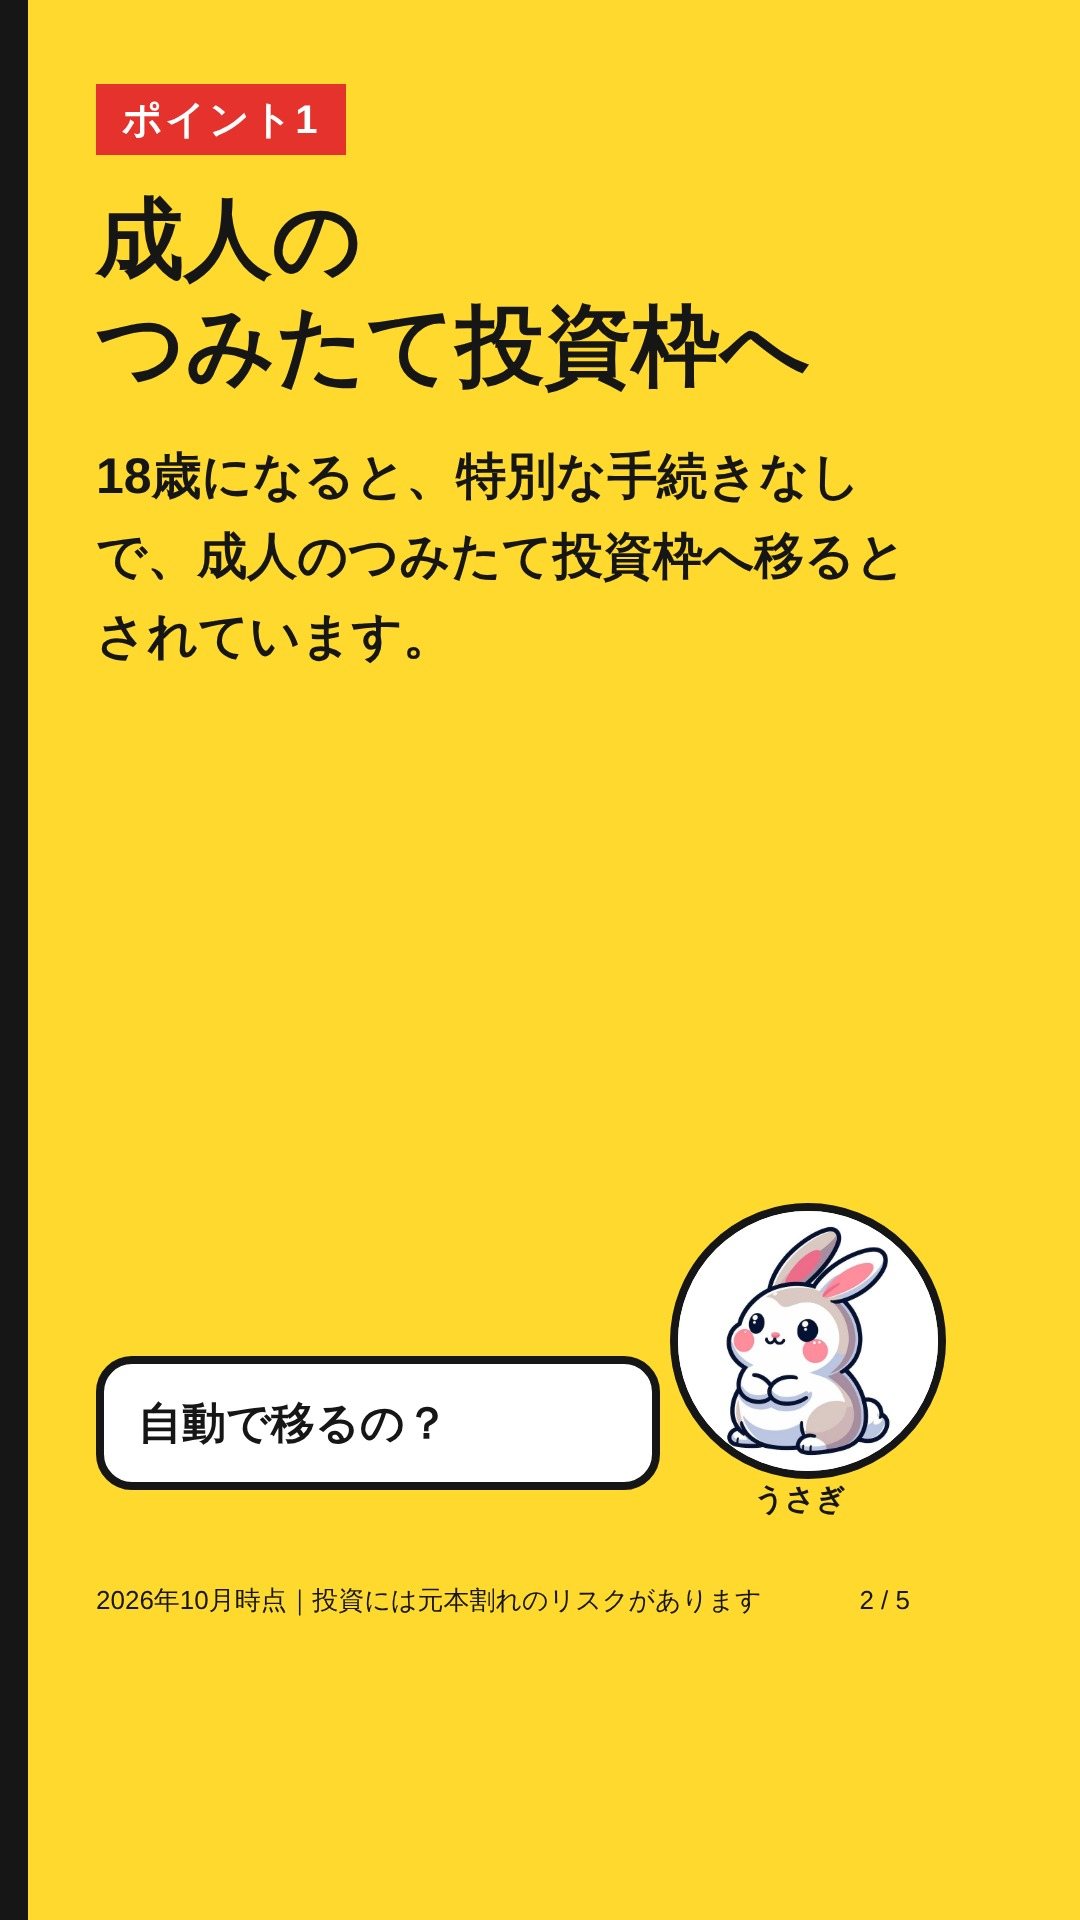
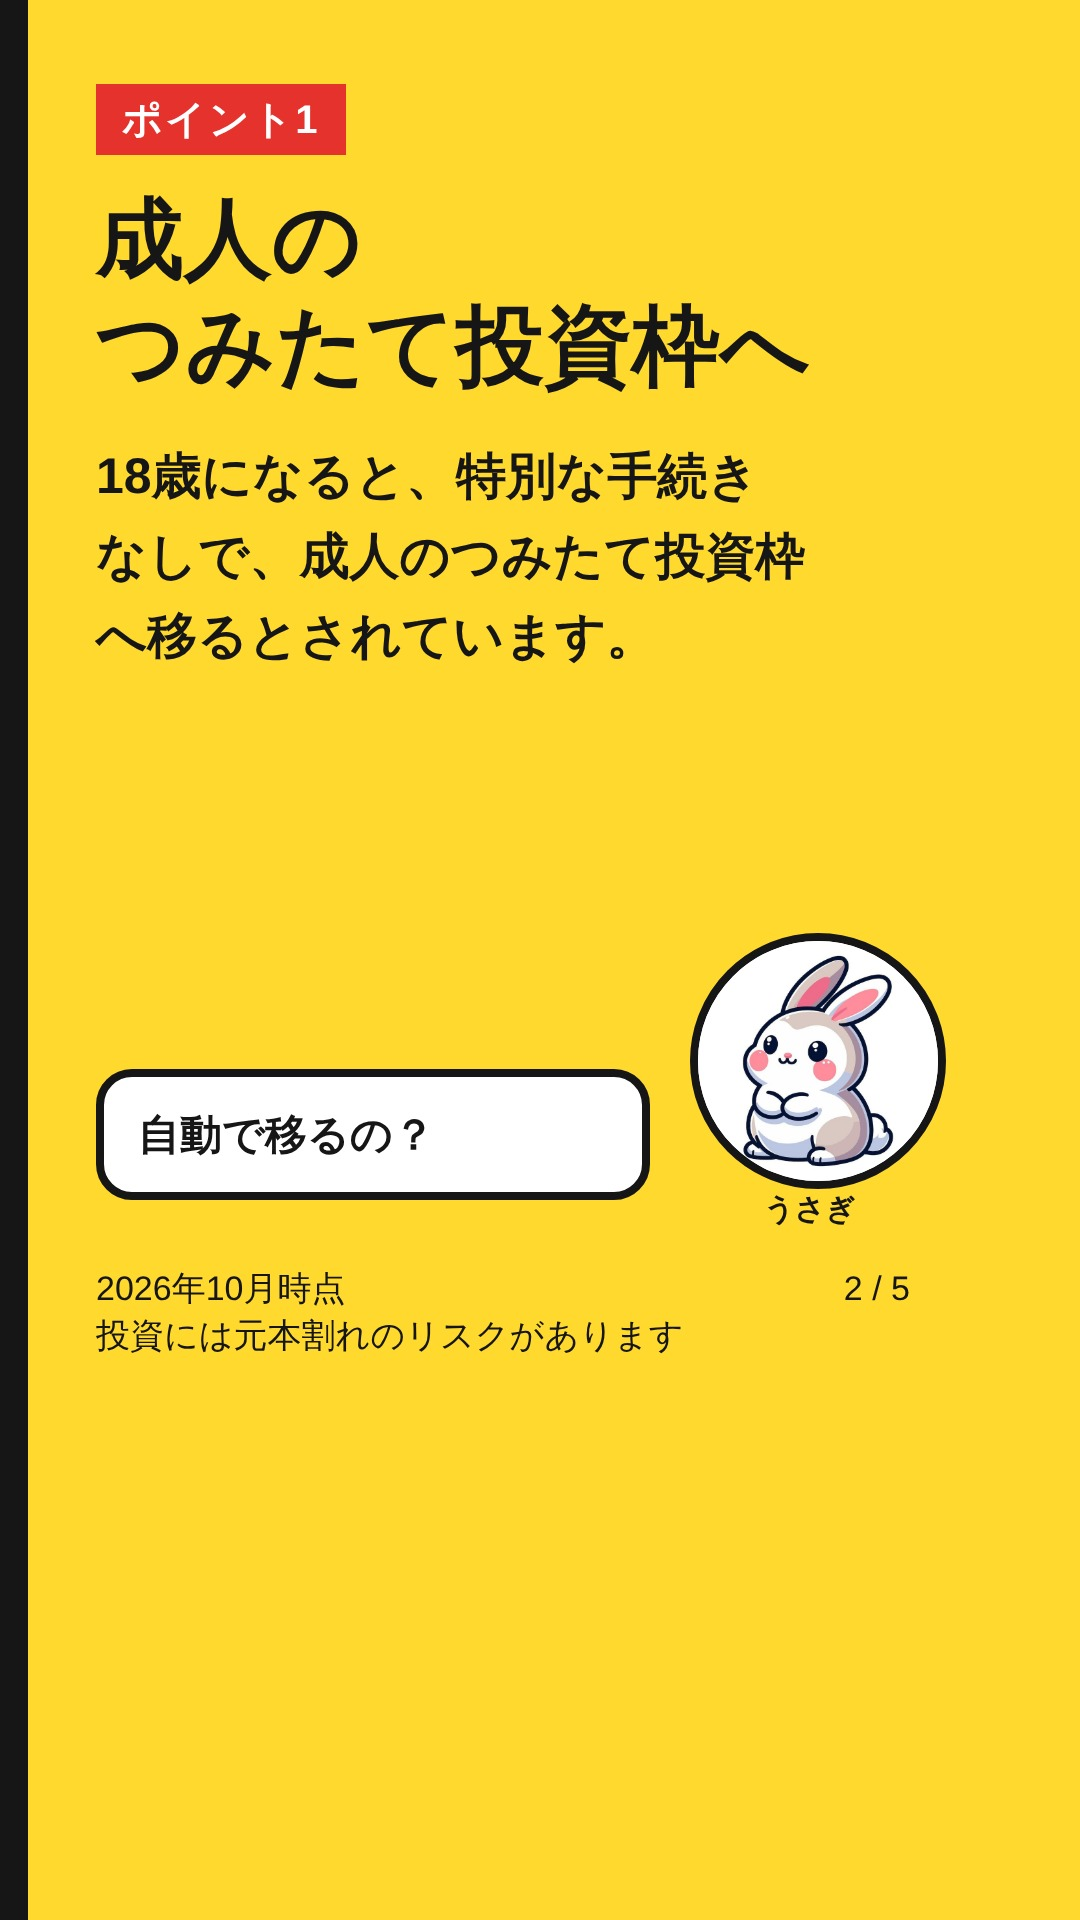
TikTok素材を検品の指摘に沿って作り直し（9:16の安全域、題材の変更）
Claude-Session: https://claude.ai/code/session_016eD9xCr7yvyvgGHZSW11X3

diff --git a/scripts/make_carousel.js b/scripts/make_carousel.js
@@ -37,7 +37,7 @@ ul{list-style:none;padding:0;margin:40px 0 0;display:flex;flex-direction:column;
     if (s.type === 'cover') inner = `<span class="pill">${esc(s.tag)}</span><h1>${esc(s.title)}</h1><div class="swipe">スワイプして見てね →</div><div class="who"><img src="${img(s.who||'owl')}">${NAME[s.who||'owl']}</div>`;
     else if (s.type === 'summary') inner = `<span class="pill">まとめ</span><h2>${esc(s.title)}</h2><ul>${(s.bullets||[]).map(x=>`<li>${esc(x)}</li>`).join('')}</ul><div class="cta">${esc(s.cta||'保存して、あとで見返してね')}</div>`;
     else inner = `<span class="pill">${esc(s.label||'')}</span><h2>${esc(s.title)}</h2><div class="body">${esc(s.body)}</div>${s.say?`<div class="say">${esc(s.say)}</div><div class="who"><img src="${img(s.who||'owl')}">${NAME[s.who||'owl']}</div>`:''}`;
-    const html = `<!doctype html><meta charset="utf-8"><style>${CSS.replace('height:1350px', 'height:' + H + 'px')}${TT ? 'body{padding-bottom:420px!important;padding-right:170px!important}.foot{bottom:300px!important;right:170px!important}.say{bottom:430px!important;right:420px!important}.who{bottom:400px!important;right:150px!important}.cta{bottom:430px!important;right:170px!important}.swipe{bottom:430px!important}h1{font-size:112px!important}h2{font-size:88px!important}' : ''}</style><div class="bar"></div>${inner}<div class="foot"><span>${esc(d.footer||'')}</span><span>${i+1} / ${N}</span></div>`;
+    const html = `<!doctype html><meta charset="utf-8"><style>${CSS.replace('height:1350px', 'height:' + H + 'px')}${TT ? 'body{padding-bottom:700px!important;padding-right:170px!important}.foot{bottom:560px!important;right:170px!important;font-size:34px!important;line-height:1.4!important}.say{bottom:720px!important;right:430px!important;font-size:42px!important}.who{bottom:690px!important;right:150px!important;width:240px!important}.who img{width:240px!important;height:240px!important}.cta{bottom:720px!important;right:170px!important;font-size:48px!important}.swipe{bottom:720px!important}h1{font-size:112px!important}h2{font-size:88px!important}.body{font-size:50px!important}' : ''}</style><div class="bar"></div>${inner}<div class="foot"><span>${esc(d.footer||'')}</span><span>${i+1} / ${N}</span></div>`;
     await p.setContent(html); await p.waitForTimeout(250);
     await p.screenshot({path: path.join(outDir, `slide-${String(i+1).padStart(2,'0')}.jpg`), type:'jpeg', quality:92});
   }

diff --git a/reviews/tiktok-2026-10-12.md b/reviews/tiktok-2026-10-12.md
@@ -1,0 +1,76 @@
+# 検品: TikTok写真投稿3本（第1回）
+- 検品日: 2026-10-12
+- 対象: posts/tiktok/01-oya-kouza, 02-jidou-teate, 03-18sai（各 .json／slide-01〜05.jpg）と captions.md
+- 根拠: blog/content/posts/（oya-kouza-betsu-kaisha, haraidashi-12sai, kodomo-nisa-gakushi-hoken, junior-nisa-tigai）、research/20261010-kodomo-nisa.md、docs/compliance.md
+- 総合判定: 【3本とも差し戻し】
+
+| 本 | 判定 | A法令 | B事実 | C企画SEO | D読みやすさ |
+|---|---|---|---|---|---|
+| 01 親の口座、ある？ | 差し戻し | OK | 4/5 | 3/5 | 3/5 |
+| 02 全部つぎ込む？ちょっと待って | 差し戻し | NG | 2/5 | 2/5 | 3/5 |
+| 03 18歳でどうなる？ | 差し戻し | NG（キャプションに元本割れの注記なし。下の共通必須1と合わせて） | 4/5 | 4/5 | 3/5 |
+
+注: PR表記は、リンクなし・アフィリエイト要素なしのため今回は不要と判断。プロフィール欄に案件リンクを置く場合は、別途PR表記を要確認。
+
+## 共通の必須修正（3本とも・全15枚）
+| # | 該当箇所 | 問題 | 修正案 |
+|---|---|---|---|
+| 共1 | 全スライド下部のフッター「2026年10月時点｜投資には元本割れのリスクがあります」（y≒1600／1920、文字高さ約28px） | TikTokの下部UI（投稿者名・キャプション・音源表示）に隠れる位置。時点と元本割れの注記が、実質的に見えない。文字も小さい | フッターを画面の中ほど（y≒1100〜1250）に移し、文字を大きくする（目安40px以上）。キャプションにも時点と元本割れを入れる（現状は03に元本割れの記載なし） |
+| 共2 | 吹き出し・キャラクター・CTA（y≒1200〜1520）、右側のキャラ円（x≒670〜946） | 下側25％・右端の隠れる領域にかかる。吹き出しの文字（y≒1360〜1450）が隠れる恐れ。CTA（5枚目、y≒1305〜1490）も同様 | 本文・吹き出し・CTAは、上端から約150px下〜下端から約480px上、右端から約140px内側に収める。500〜1200pxの空白を活用して配置を詰める |
+| 共3 | 途中改行（後述の各本） | 単語の途中や1文字だけの改行（「じ／ゃ」「は／？」「てね」など） | 文節で改行する。吹き出しの幅を広げるか、文言を短くする |
+
+## 01 親の口座、ある？ —【差し戻し】
+### 必須修正
+| # | 該当箇所 | 問題 | 修正案 |
+|---|---|---|---|
+| 1-1 | 1枚目「申込の前に／親の口座、ある？」ほか全スライド | 「こどもNISA」の語が画像のどこにもない（スライド4に「こども口座」とあるのみ）。何の申込か、画像だけでは分からない。キャプションを読まない人は誤解する | 1枚目のタグを「こどもNISAの申込の前に」にする。以降も「こどもNISA」で統一する |
+| 1-2 | 4枚目「その会社のこども口座の条件を、公式の案内で確認します」 | 「その会社」が親の会社か別の会社か不明。「こども口座」は他では使っておらず表記ゆれ。ブログ（oya-kouza-betsu-kaisha）にある2つの道（親の会社で開く／別の会社で開き、親権者の口座も用意する）の片方しか言えていない | 「親の会社がこどもNISAを受け付けているか、公式で確認。別の会社で開くなら、親権者の口座もその会社に必要なことが多い」の趣旨に直す（「とされています」を付ける） |
+| 1-3 | 改行: 2枚目本文「こと／が条件」、4枚目吹き出し「大事な／のね」、5枚目CTA「見返し／てね」 | 途中改行・孤立 | 共3のとおり |
+### 推奨修正
+- キャプションのハッシュタグ #児童手当 は、この投稿の内容（親の口座）と無関係。外し、#親の口座 などに替える。
+- 2枚目の見出し「多くの会社は親も同じ会社の口座が条件」は、見出しだけを読むと言い切りに見える。ブログどおり「条件とされることが多い」にそろえる。
+- 3枚目「形が多いようです」の「ようです」は推測の言い方。ブログの「多くの会社で条件とされている」に合わせる。
+- 左端の黒い縞（約28px）は不要。内容も左寄りに見えるので、余白を左右でそろえる。
+### 良かった点
+- 内容はブログの記述（主要ネット証券の多くで親権者も同じ会社の口座が条件。SBI証券は同時申請可）と整合している。
+- 勧誘・個別の会社名・おすすめがない。「公式で確認を」で締めている。
+- キャプションに時点・元本割れの注記がある。
+
+## 02 全部つぎ込む？ちょっと待って —【差し戻し】
+### 必須修正
+| # | 該当箇所 | 問題 | 修正案 |
+|---|---|---|---|
+| 2-1 | 1枚目「全部／つぎ込む？／ちょっと／待って」、タグ「児童手当を積み立てる前に」、captions.md の題名 | ①「つぎ込む」はギャンブルを連想させ、不安をあおる。②「ちょっと待って」は、積み立てそのものを止める指示に読める。元本割れの注意として読まれる保証がない（表紙だけ見る人が多い）。③「全部」という前提は、ブログにも研究資料にもない。割合の決まりはなく家庭が決めるとするブログの立場（kodomo-nisa-gakushi-hoken）とも合わない。個別の資産配分への助言にも近い | 表紙は中立的に。例「児童手当を積み立てる前に／知っておきたい3つのこと」「こどもNISAは、元本割れすることがあります」。「つぎ込む」「待って」は使わない |
+| 2-2 | 2枚目「試算は仮定の利回り／試算は仮定の利回りで計算したもの。実際の結果とは異なります。」、5枚目の箇条書き1つ目 | この投稿に試算がなく、「試算」が何を指すのか不明。ブログには「この記事では、運用の試算は載せません」とあり、公開記事に根拠がない（research A-3 にあるのは、試算を載せる場合の注意のみ）。吹き出し「ふえるって決まってないの？」とも噛み合わない | 「将来の結果は誰にも約束できません。ふえることも、減ることもあります」の趣旨に直す（ブログ「将来の結果は、誰にも約束できません」が根拠） |
+| 2-3 | 「児童手当を〜積み立てる」全体、captions.md「児童手当をこどもNISAに回す前に」 | 公開済みブログに児童手当の記事がなく、児童手当を積み立てに回す前提（出どころ）を裏付ける公開記事がない。「回す」は誘導にも読める | 児童手当の話は出さない題材に替えるか、先に根拠となる記事を出して整合させる。出すなら「資金の出どころは家庭が決めること」の旨を添える |
+| 2-4 | 改行: 2枚目吹き出し「決まってな／いの？」、本文「計算したも／の」、4枚目吹き出し「要るとき／は？」 | 途中改行・孤立 | 共3のとおり |
+### 推奨修正
+- 4枚目の見出し「原則18歳まで引き出せない」は、本文の「12歳以降は条件つき」と併せて読む形でよいが、「とされています」を見出し側にも添える。
+- ハッシュタグは #児童手当 が内容と合わない。2-3の修正と合わせて見直す。
+### 良かった点
+- 元本は保証されない、元本割れもある、原則18歳まで引き出せない、の3点は、ブログの内容と合っている。
+- 3枚目の元本割れの説明は、誤解のない言い方になっている。
+
+## 03 18歳でどうなる？ —【差し戻し】
+### 必須修正
+| # | 該当箇所 | 問題 | 修正案 |
+|---|---|---|---|
+| 3-1 | captions.md 03の文章 | 「投資には元本割れのリスクがあります」がない（01・02にはある）。フッターは隠れる位置にある（共1）。12歳以降は引き出せるという話題で、引き出せるお金があるとは限らない点（ブログ haraidashi-12sai「元本割れ」の節）に触れていない | キャプションに「投資には元本割れのリスクがあります」を加える |
+| 3-2 | 3枚目の見出し「12歳からは条件つきで引き出せる」、5枚目「12〜17歳：条件つき」「18歳：成人の枠へ」 | 見出し・まとめが言い切り。ブログでは税制改正大綱にもとづく内容で、政令・省令での確定は未確認としている | 見出し・まとめにも「とされる」を付ける。5枚目に「細かい条件は未確定」を入れる（現状は4枚目にのみ記載） |
+| 3-3 | 3枚目吹き出し「申し出るのは親権者じゃ」 | ブログは「親権者等（口座管理者）」。「等」を落としている。改行も「じ／ゃ」と1文字残り | 「申し出るのは親権者等じゃ」とし、改行を直す |
+| 3-4 | 改行: 3枚目本文「使うこと／と、」、4枚目吹き出し「お金な／のね」 | 途中改行 | 共3のとおり |
+### 推奨修正
+- 4枚目の見出し「原則 引き出せない」の半角スペースは表記ゆれ（他は「原則引き出せない」）。
+- 構成が18歳→12歳→0〜11歳の順で時系列と逆。0〜11歳→12〜17歳→18歳の順のほうが分かりやすい。
+### 良かった点
+- 18歳での自動移行は、金融庁資料とブログに沿った記述で、「とされています」と留保している。
+- 払出し条件の説明は、ブログと一致している。
+- 4枚目で、細かい条件が未確定であることを書いている。
+- キャプションに時点と出典の趣旨がある。
+
+## 確認点への回答
+1. ブログ・研究資料にない主張: 02の「試算は仮定の利回り」と「児童手当」の前提、「全部つぎ込む」が該当（2-1〜2-3）。01の「こども口座」、03の「親権者」は言い換えのずれ。
+2. 言い切り・断定・勧誘・個別商品: 個別商品・会社名の推奨・勧誘はなし。ただし02の表紙は、不安をあおり、積み立てを止めるように読める。元本割れの注意としては正しく読めない。03の見出し・まとめは、断定調。
+3. 時点・元本割れの注記: 全15枚にフッターはある。ただし隠れる位置にあり、実質的に見えない（共1）。03のキャプションには元本割れの記載がない。
+4. 隠れる領域: フッター・吹き出し・CTAが下側にかかる。キャラ円が右端に近い（共1・共2）。
+5. ハッシュタグ・文章: 01の #児童手当 は不適切。02は題名・文章を要見直し。03は元本割れの追記が必要。

diff --git a/posts/tiktok/captions.md b/posts/tiktok/captions.md
@@ -1,16 +1,15 @@
 # TikTok（写真投稿）用の文章  ※オーナーがスマホから投稿する
 
-共通：画像5枚を順番に選び、「写真投稿」で出す。音楽は、TikTokの無料の音源から、軽いものを選ぶ（AIで作った表示がある場合は、オンにする）。リンクは載せない。
+共通：画像5枚を順番に選び、「写真投稿」で出す。音楽は、TikTokの無料の音源から軽いものを選ぶ（AIで作った表示がある場合は、オンにする）。リンクは載せない。画像の文字は、画面の上のほうに寄せてあるので、そのまま出してよい。
 
 ## 01 親の口座、ある？（01-oya-kouza）
-- 1枚目の見え方：「親の口座、ある？」
-- 文章：こどもNISAの申込の前に、確認したい3つ。親の口座は同じ会社に必要なことが多いとされています。※2026年10月時点。内容は会社により異なります。投資には元本割れのリスクがあります。
-- ハッシュタグ：#こどもNISA #NISA #子育てとお金 #児童手当 #資産形成
+- 文章：こどもNISAの申込の前に、確認したい3つ。多くの会社で、親も同じ会社の口座が条件とされています。※2026年10月時点。内容は会社により異なります。投資には元本割れのリスクがあります。
+- ハッシュタグ：#こどもNISA #NISA #子育てとお金 #資産形成 #お金の勉強
 
-## 02 全部つぎ込む？ちょっと待って（02-jidou-teate）
-- 文章：児童手当をこどもNISAに回す前に、知っておきたい3つ。元本は保証されません。※2026年10月時点。投資には元本割れのリスクがあります。
-- ハッシュタグ：#児童手当 #こどもNISA #NISA #子育てとお金 #お金の勉強
+## 02 元本は保証されない（02-genpon）
+- 文章：こどもNISAは投資です。元本割れすることもあります。始める前に知っておきたい3つ。※2026年10月時点。投資には元本割れのリスクがあります。
+- ハッシュタグ：#こどもNISA #NISA #子育てとお金 #お金の勉強 #資産形成
 
 ## 03 18歳でどうなる？（03-18sai）
-- 文章：こどもNISAは、18歳と12歳で何が変わる？ 年齢で3つに分かれます。※2026年10月時点の公表資料にもとづく整理。細かい条件には、確定していない部分があります。
+- 文章：こどもNISAは、12歳と18歳で何が変わる？ 年齢で3つに分かれます（公表資料にもとづく整理）。細かい条件には確定していない部分があります。※2026年10月時点。投資には元本割れのリスクがあります。
 - ハッシュタグ：#こどもNISA #NISA #子育てとお金 #お金の勉強 #資産形成
